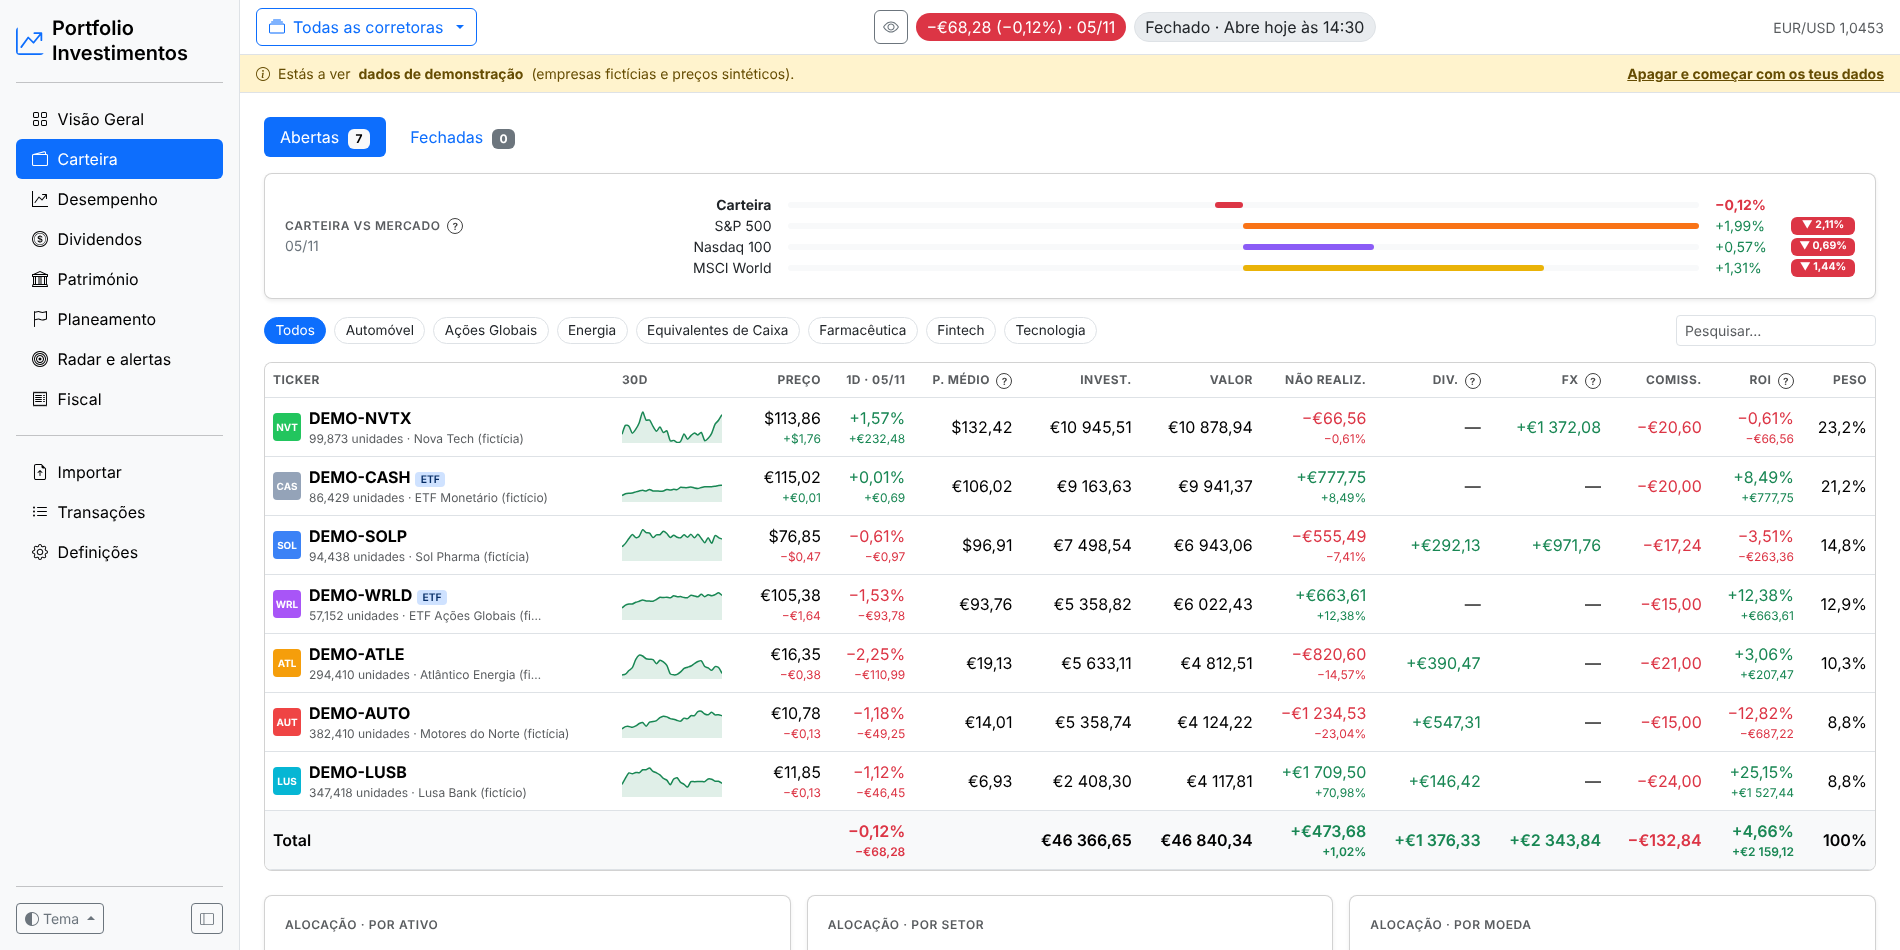
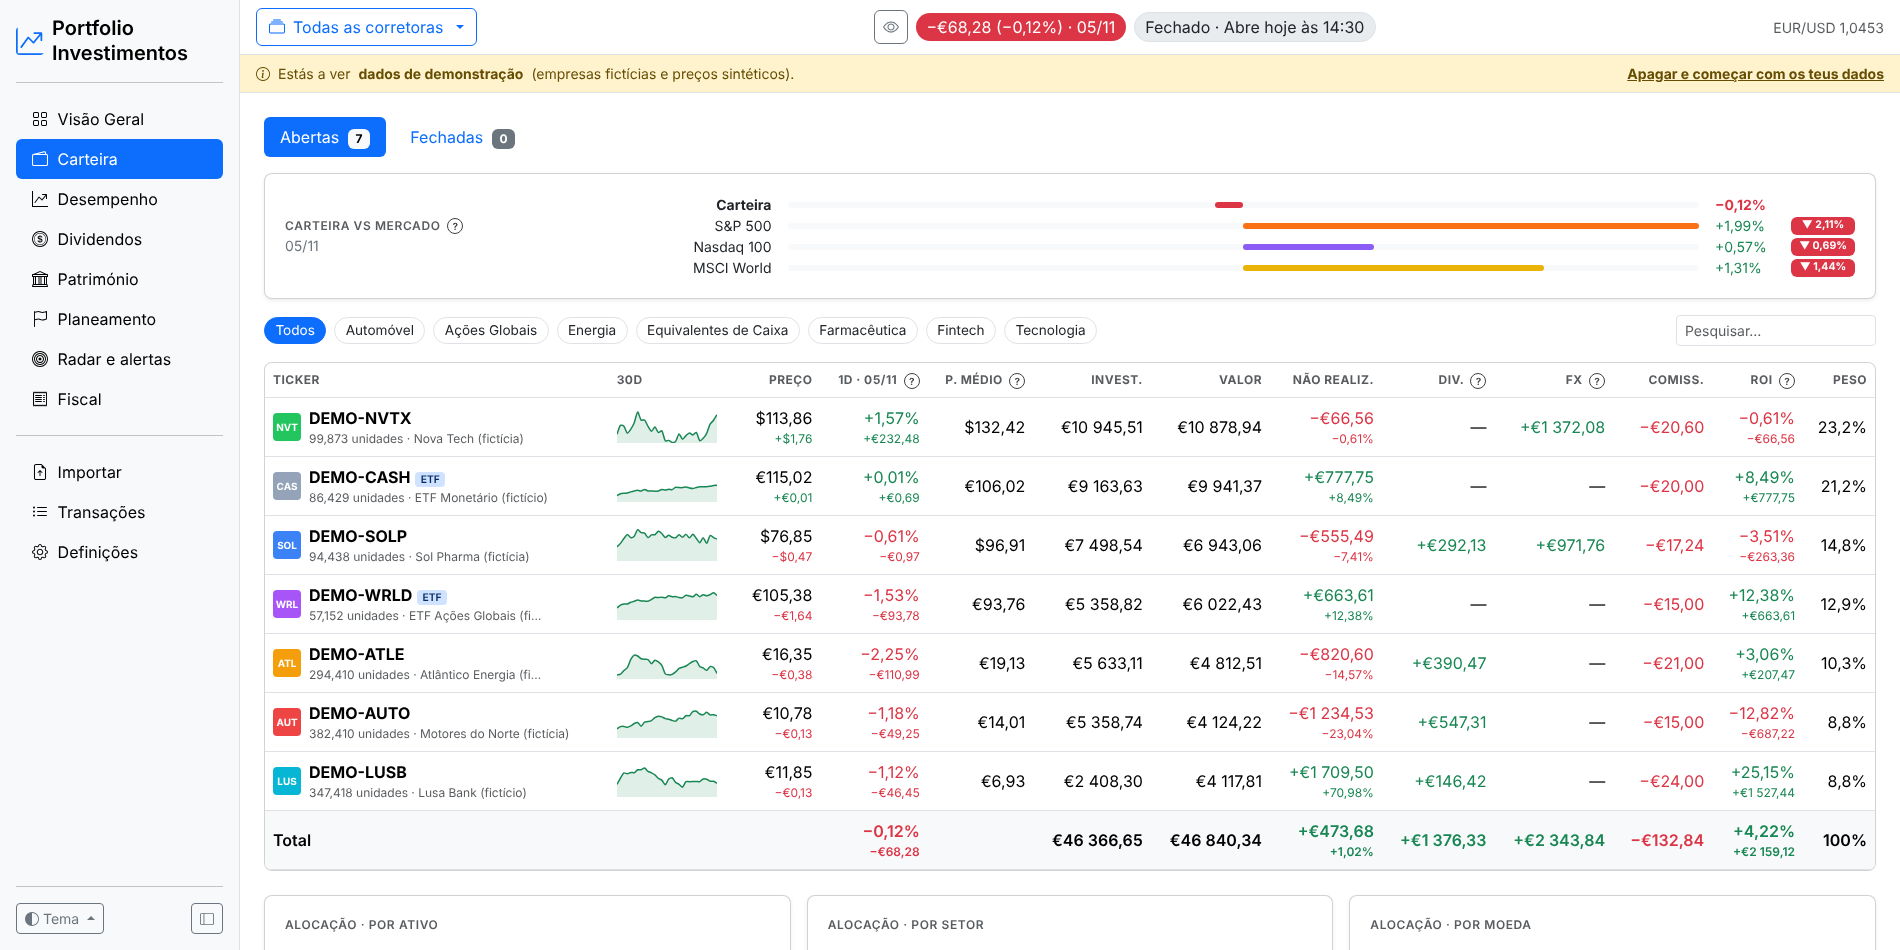
Carteira: ROI % do total com a mesma base das linhas; «?» na coluna 1D
Verificados os cálculos da tabela da Carteira: em cada linha, não realizado = valor − investido e ROI = não realizado + realizado + dividendos; no total, cada coluna (investido, valor, não realizado, dividendos, FX, comissões, ROI e o 1D em euros) é a soma das linhas; os pesos somam 100%.

Correções:
- O ROI % das linhas divide por tudo o que se investiu no ativo (bought_eur, incluindo partes já vendidas, de onde vem o realizado), mas o do total dividia só pelo investido nas posições abertas. Com vendas parciais, os dois não eram comparáveis. O total passa a usar a mesma base (soma de bought_eur). O «?» do ROI explica a base.
- Coluna 1D: um «?» explica que a % é a do preço na moeda do ativo (a que mostram a corretora e o Yahoo), que o valor em euros inclui a variação do câmbio (numa ação em dólares, os dois podem não bater) e que, no total, a % é sobre a carteira com a caixa, como na barra do topo.

Teste novo das somas e da base do ROI; captura 05 (claro e escuro) e histórico atualizados.

Claude-Session: https://claude.ai/code/session_01AhMv5rzh4esVFWwNf2sje8

diff --git a/portfolio_investimentos/templates/pages/carteira.html b/portfolio_investimentos/templates/pages/carteira.html
@@ -53,7 +53,7 @@
       <thead><tr>
         <th data-sort="text">Ticker</th><th>30D</th>
         <th data-sort="num" class="text-end">Preço</th>
-        <th data-sort="num" class="text-end">1D · {{ p.as_of|ddmm }}</th>
+        <th data-sort="num" class="text-end">1D · {{ p.as_of|ddmm }} {{ help("Variação desde o fecho anterior. A % é a do preço na moeda do ativo (a que mostram a corretora e o Yahoo); o valor em euros inclui também a variação do câmbio, por isso numa ação em dólares os dois podem não bater. No total, a % é sobre o valor da carteira com a caixa, como na barra do topo.") }}</th>
         <th data-sort="num" class="text-end">P. médio {{ help("Preço médio de compra (FIFO, com comissões) na moeda do ativo.") }}</th>
         <th data-sort="num" class="text-end">Invest.</th>
         <th data-sort="num" class="text-end">Valor</th>
@@ -61,7 +61,7 @@
         <th data-sort="num" class="text-end">Div. {{ help("Dividendos líquidos recebidos desta posição.") }}</th>
         <th data-sort="num" class="text-end">FX {{ help("Parte do resultado devida à variação cambial.") }}</th>
         <th data-sort="num" class="text-end">Comiss.</th>
-        <th data-sort="num" class="text-end">ROI {{ help("Não realizado + realizado + dividendos, face ao investido.") }}</th>
+        <th data-sort="num" class="text-end">ROI {{ help("Não realizado + realizado + dividendos, a dividir por tudo o que investiste no ativo (incluindo as partes que já vendeste, porque o realizado vem delas). No total, a mesma conta com a soma das posições abertas.") }}</th>
         <th data-sort="num" class="text-end">Peso</th>
       </tr></thead>
       <tbody>
@@ -100,7 +100,7 @@
         <td class="text-end text-up money">{{ total.dividends|money(2, sign=True) }}</td>
         <td class="text-end {{ total.fx|tone }} money">{{ total.fx|money(2, sign=True) }}</td>
         <td class="text-end text-down money">{{ (-total.fees)|money(2) }}</td>
-        <td class="text-end"><span class="{{ total.roi|tone }}">{{ (total.roi / total.invested if total.invested else 0)|pct(2) }}</span>
+        <td class="text-end"><span class="{{ total.roi|tone }}">{{ (total.roi / total.roi_base if total.roi_base else 0)|pct(2) }}</span>
           <div class="sub {{ total.roi|tone }} money">{{ total.roi|money(2, sign=True) }}</div></td>
         <td class="text-end">100%</td>
       </tr></tfoot>

diff --git a/tests/test_app.py b/tests/test_app.py
@@ -1951,3 +1951,24 @@ def test_delete_backup(app, client):
     assert Path(path).exists() and len(backups.list_backups(path)) == 2
     assert post(client, "delete_backup", token, name=Path(first).name).status_code == 200
     assert [b.name for b in backups.list_backups(path)] == [n for n in names if n != Path(first).name]
+
+
+def test_portfolio_totals_match_rows(app, client):
+    """Carteira: o total de cada coluna é a soma das linhas e o ROI % usa a mesma base das linhas."""
+    from portfolio_investimentos.engine.formatting import pct
+    token = csrf(client)
+    post(client, "load_demo", token)
+    with app.app_context():
+        p = data_portfolio()
+        rows = p.open_positions
+        assert abs(sum(x.value_eur for x in rows) - p.holdings_value) < 0.01
+        assert abs(sum(x.invested_eur for x in rows) - p.cost_basis) < 0.01
+        for x in rows:
+            assert abs(x.unrealized_eur - (x.value_eur - x.invested_eur)) < 0.01
+            assert abs(x.roi_eur - (x.unrealized_eur + x.realized_eur + x.dividends_eur)) < 0.01
+        roi = sum(x.roi_eur for x in rows)
+        base = sum((x.bought_eur or x.invested_eur) for x in rows)
+        assert sum(x.value_eur / p.holdings_value for x in rows) == pytest.approx(1.0)
+    html = client.get("/carteira").get_data(as_text=True)
+    total = html.split("<tfoot>", 1)[1].split("</tfoot>", 1)[0]
+    assert pct(roi / base, 2) in total

diff --git a/portfolio_investimentos/views.py b/portfolio_investimentos/views.py
@@ -153,7 +153,9 @@ def carteira():
                "dividends": sum(x.dividends_eur for x in p.open_positions),
                "fx": sum(x.fx_effect_eur for x in p.open_positions),
                "fees": sum(x.fees_eur for x in p.open_positions),
-               "roi": sum(x.roi_eur for x in p.open_positions)},
+               "roi": sum(x.roi_eur for x in p.open_positions),
+               # base do ROI % como nas linhas: tudo o que se investiu em cada ativo (incluindo partes já vendidas)
+               "roi_base": sum((x.bought_eur or x.invested_eur) for x in p.open_positions)},
         alloc=ctx.js_json({k: p.allocation(k) for k in ("asset", "sector", "currency")}),
         crisis=stress.crisis_test(p), costs=_costs(p), valuations=_valuations(p),
         aaa_yield=_aaa_yield() or valuation.AAA_YIELD,

diff --git a/CHANGELOG.md b/CHANGELOG.md
@@ -4,7 +4,9 @@ O que mudou em cada commit, do mais recente para o mais antigo (gerado a partir 
 
 ## 2026-11-05
 
-- **Cópias de segurança: no máximo 2**  
+- **Carteira: ROI % do total com a mesma base das linhas; «?» no 1D**  
+  Confirmados os totais da tabela (cada coluna é a soma das linhas). O ROI % do total passava a dividir pelo investido só nas posições abertas, enquanto as linhas dividem por tudo o que se investiu no ativo (incluindo partes já vendidas, de onde vem o realizado); o total passa a usar a mesma base. A coluna 1D ganha um «?»: a % é a do preço na moeda do ativo e o valor em euros inclui o câmbio.
+- **Cópias de segurança: no máximo 2** `6da949b`  
   Cada cópia nova (automática, manual ou antes de restaurar ou de atualizar a base de dados) apaga as mais antigas, para ficarem só as últimas 2 (eram 10). A cópia feita antes de restaurar nunca apaga a que se está a restaurar.
 - **Aviso de cotações antigas e eliminar cópias de segurança** `3f7cb2a`  
   Quando as cotações das posições abertas não são atualizadas há mais de 5 dias (configurável em Definições → Dados de mercado; 0 desliga), aparece uma faixa no topo de todas as páginas com o botão «Atualizar posições abertas»; fechada, fica escondida até ao fim da sessão do browser. Em Definições, cada cópia automática tem um botão «Eliminar» a seguir a «Restaurar».
